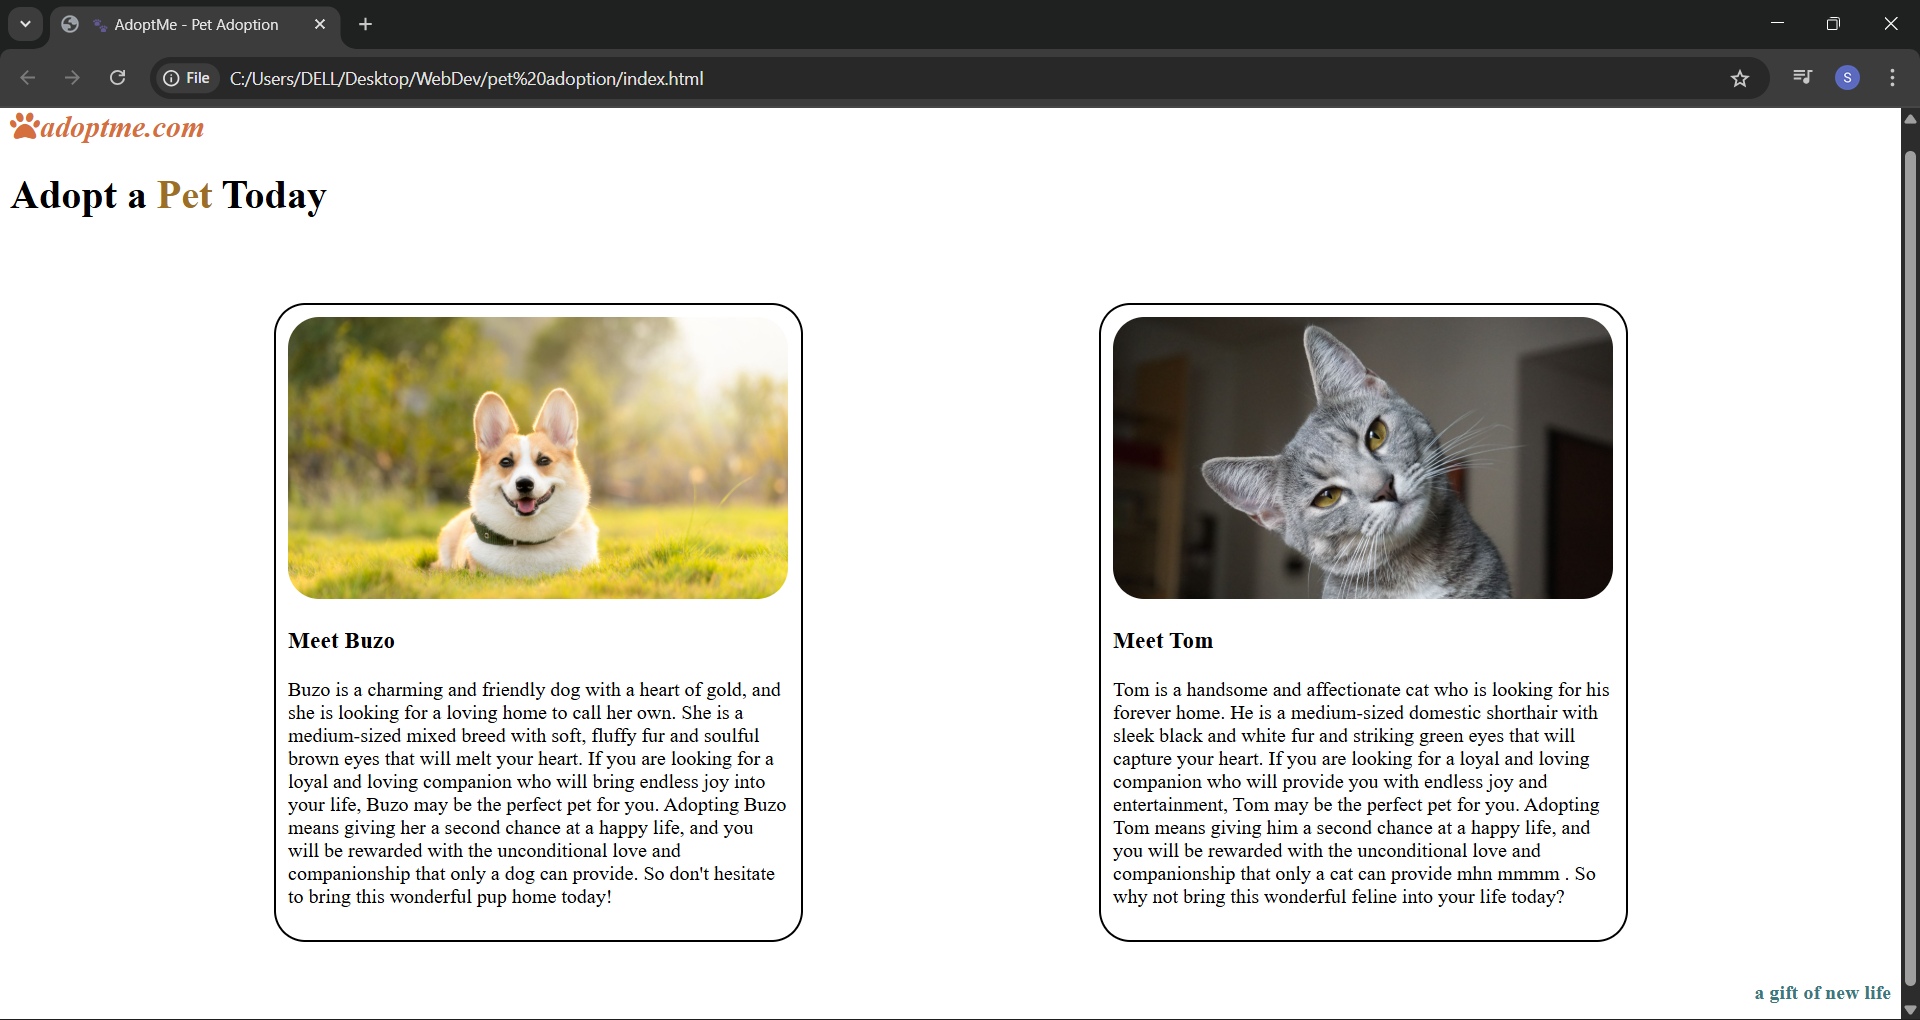
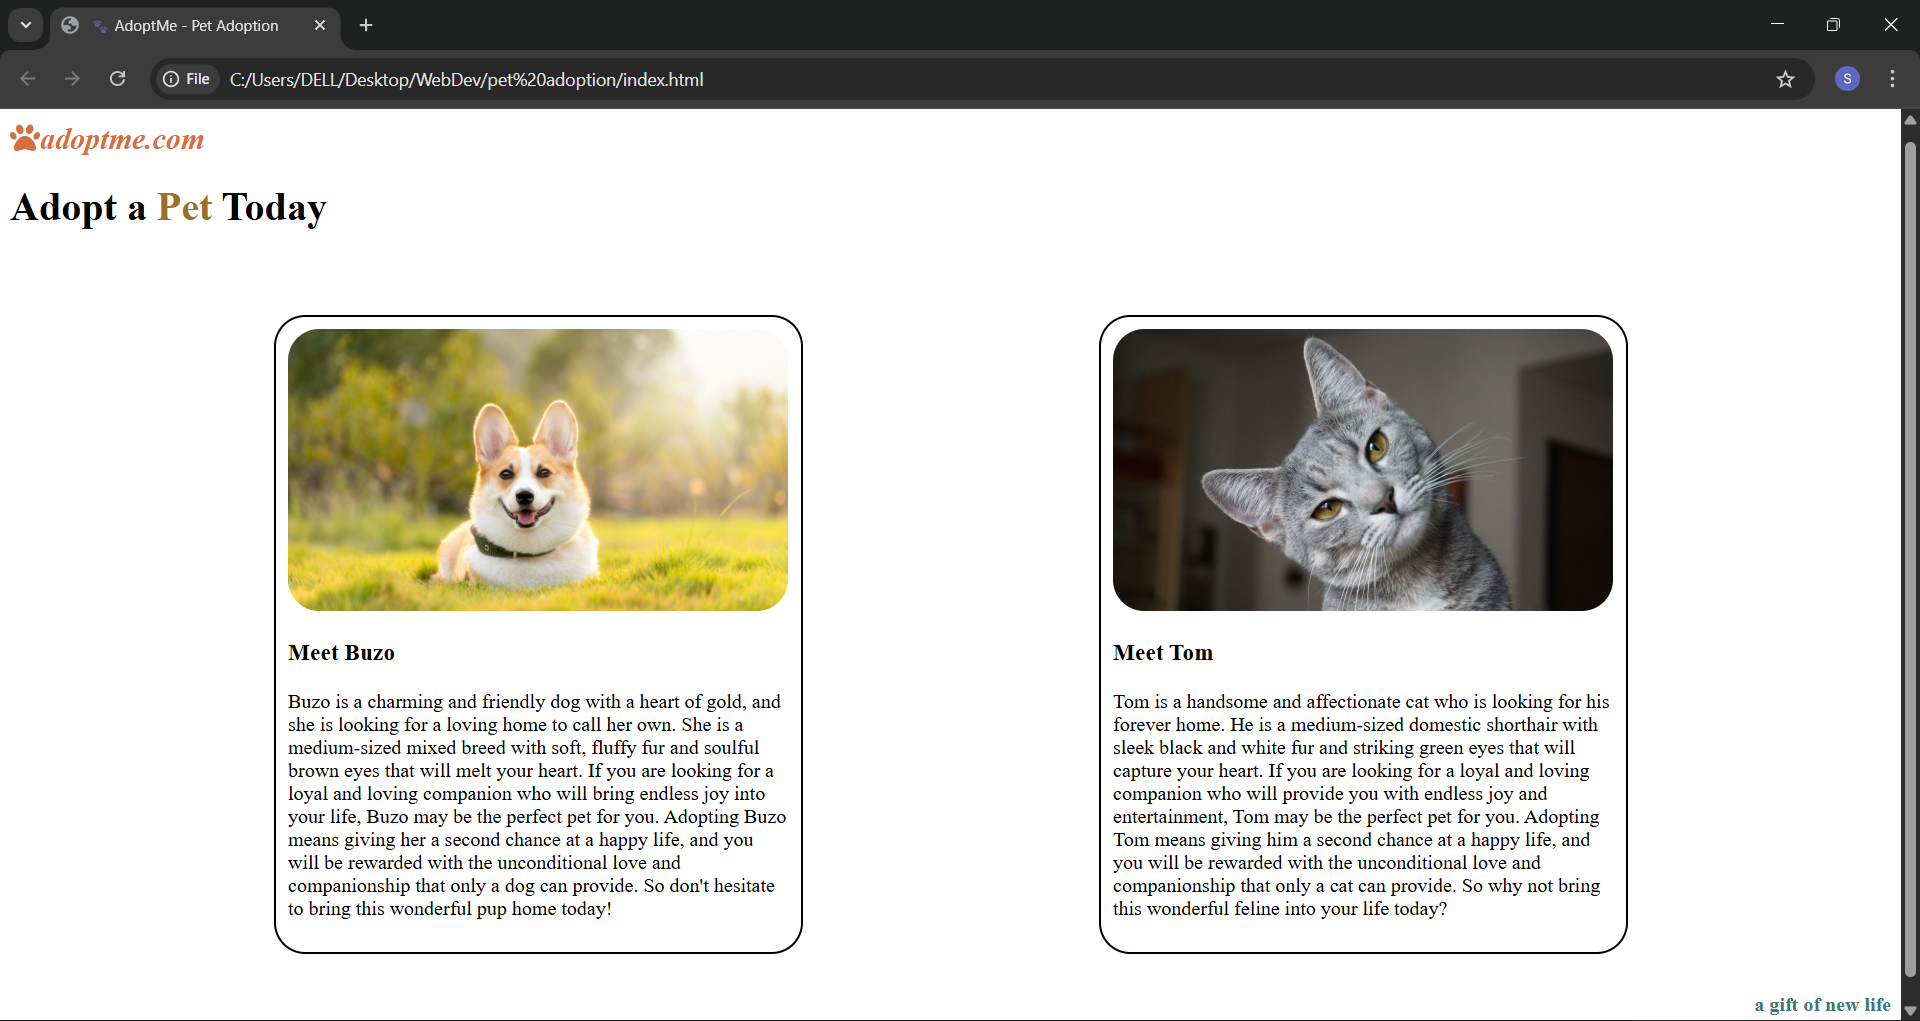
Updated

diff --git a/index.html b/index.html
@@ -41,7 +41,7 @@
           endless joy and entertainment, Tom may be the perfect pet for you.
           Adopting Tom means giving him a second chance at a happy life, and you
           will be rewarded with the unconditional love and companionship that
-          only a cat can provide mhn mmmm . So why not bring this wonderful
+          only a cat can provide. So why not bring this wonderful
           feline into your life today?
         </p>
       </div>
